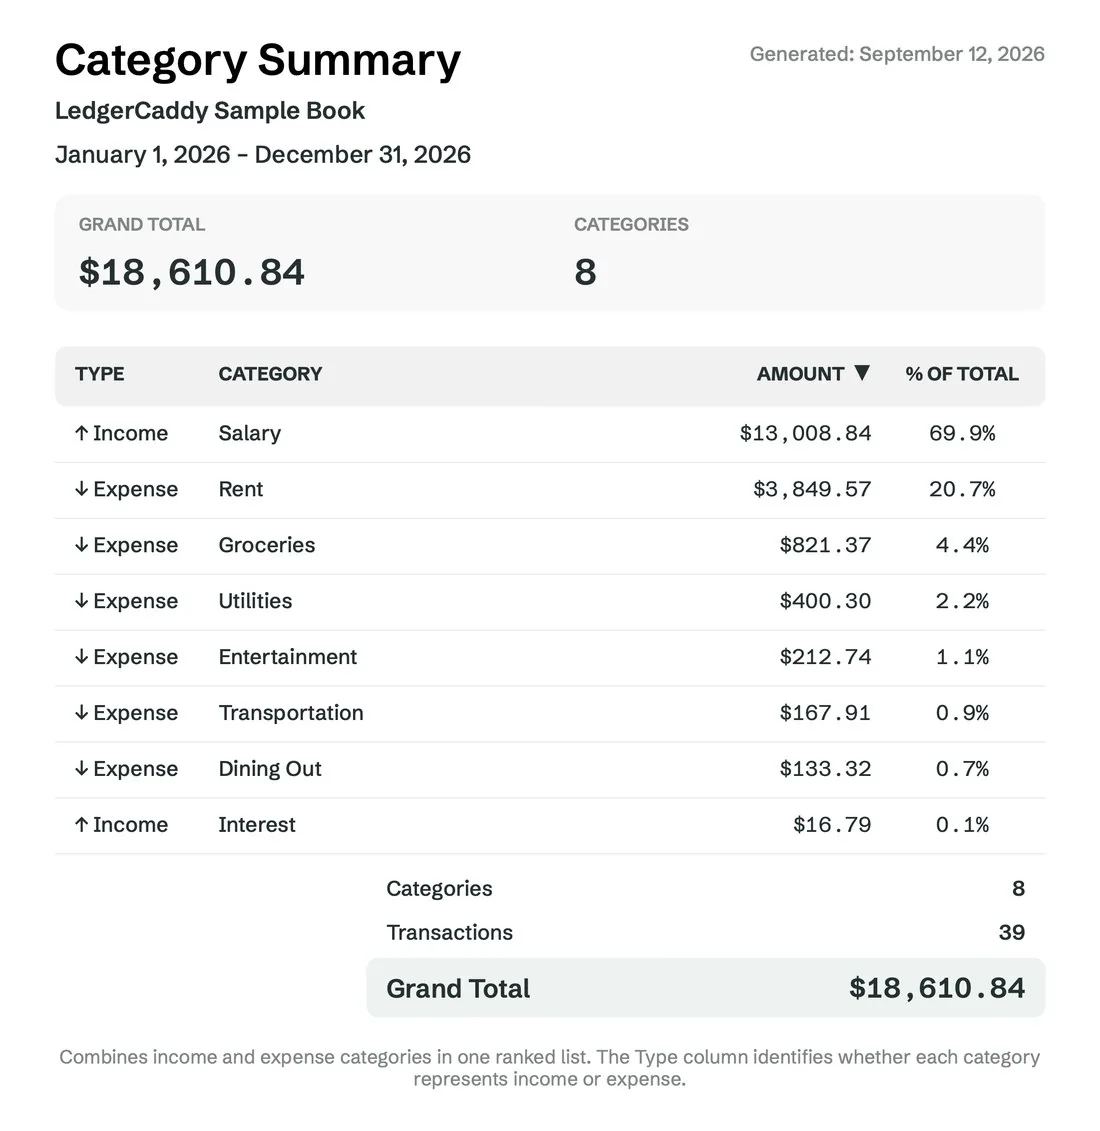
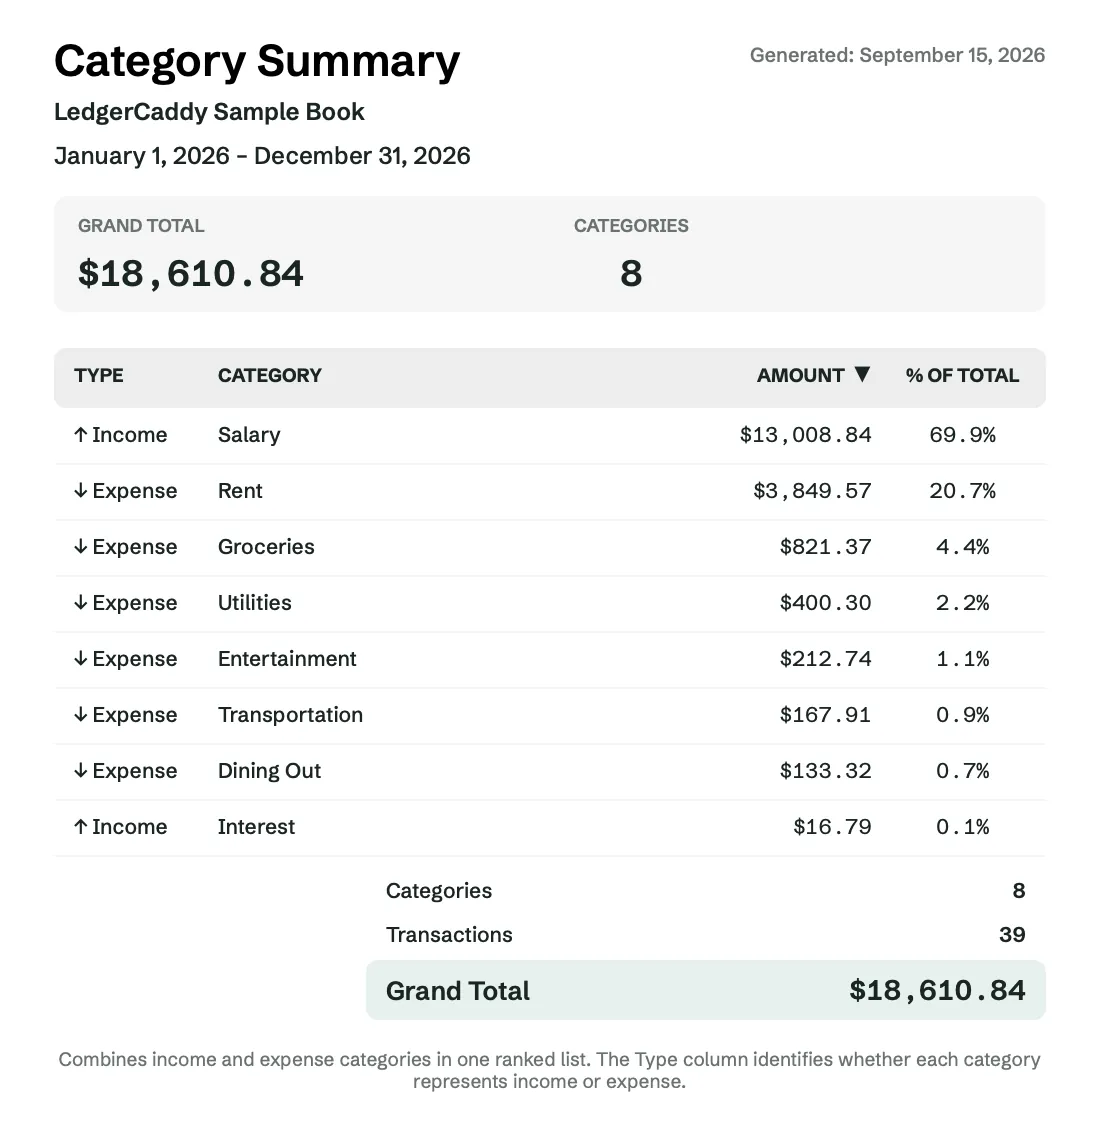
Reports: Profit & Loss replaces Income and Expense Summary; all report pages re-captured from rc.139
New images from the rc.139 Sample Book capture (profit-loss, category-summary,
period-pack p1/p2/p4), same crops and sizes as before; old
income-expense-summary files removed. Caption, alt, report-list pill and
Period Pack description updated. Hero paragraph: "Always organized. Any
report is one click away."; "clean," dropped; 62/38 hero split under 1100px.

diff --git a/index.html b/index.html
@@ -62,7 +62,7 @@ section{padding:64px 0}@media(max-width:700px){section{padding:48px 0}}
 .hero-media{width:100%;max-width:640px;justify-self:end;border-radius:18px;overflow:hidden;box-shadow:0 22px 50px rgba(26,37,35,.16);background:var(--card)}
 .hero-media img{display:block;width:100%;height:auto}
 @media(max-width:1280px){.hero .wrap{gap:48px}.hero{padding:80px 0 72px}}
-@media(max-width:1100px){.hero .wrap{gap:40px}.hero{padding:72px 0 64px}}
+@media(max-width:1100px){.hero .wrap{gap:40px;grid-template-columns:minmax(0,62fr) minmax(0,38fr)}.hero .lead{font-size:16.5px}.hero{padding:72px 0 64px}}
 @media(max-width:820px){.hero{padding:56px 0 56px}.hero .wrap{grid-template-columns:1fr;gap:40px;padding:0 24px}.hero h1{font-size:clamp(36px,9.8vw,52px)}.hero .lead{margin-top:22px}.hero-ctas{margin-top:28px}.hero-media{max-width:none;justify-self:stretch}}
 /* stats band */
 .feats{margin-top:-34px;position:relative;z-index:2;padding:0 24px}
@@ -177,7 +177,7 @@ footer{background:var(--card);border-top:1px solid var(--border);padding:40px 0}
 <section class="hero" id="main" aria-labelledby="hero-title"><div class="wrap">
 <div class="hero-copy">
 <h1 id="hero-title">Bookkeeping<br><span class="g">for people who are<br>not bookkeepers.</span></h1>
-<p class="lead">LedgerCaddy turns income and expenses into clean, reconciled books and a single PDF of professional reports. No accounting degree, no subscription, no cloud. Just a Mac app that keeps you organized all year so year-end is one click.</p>
+<p class="lead">LedgerCaddy turns income and expenses into reconciled books and professional reports. No accounting degree, no subscription, no cloud. Always organized. Any report is one click away.</p>
 <div class="hero-ctas"><a class="cta" href="#how">See how it works</a><a class="ghost" href="#pricing">Try free for 14 days</a></div>
 <p class="hero-note">Free 14-day trial. No credit card, no account, nothing to cancel.</p>
 </div>
@@ -212,15 +212,15 @@ footer{background:var(--card);border-top:1px solid var(--border);padding:40px 0}
 <section id="reports" class="tint"><div class="wrap"><div class="head center"><div class="eyebrow">Reports</div><h2>Professional reports<br>for you and your accountant.</h2>
 <p class="lead" style="margin-left:auto;margin-right:auto">These are real pages from the Sample Book, exactly as LedgerCaddy prints them. Every report also exports to PDF and CSV.</p></div>
 <div class="pages">
-<figure class="page"><picture><source srcset="images/reports/income-expense-summary.webp" type="image/webp"><img src="images/reports/income-expense-summary.jpg" alt="Income and Expense Summary report page" width="1100" height="1131" loading="lazy"></picture><figcaption><b>Income and Expense Summary.</b> The one your accountant asks for first.</figcaption></figure>
+<figure class="page"><picture><source srcset="images/reports/profit-loss.webp" type="image/webp"><img src="images/reports/profit-loss.jpg" alt="Profit &amp; Loss report page" width="1100" height="1131" loading="lazy"></picture><figcaption><b>Profit &amp; Loss.</b> The one your accountant asks for first.</figcaption></figure>
 <figure class="page"><picture><source srcset="images/reports/category-summary.webp" type="image/webp"><img src="images/reports/category-summary.jpg" alt="Category Summary report page" width="1100" height="1131" loading="lazy"></picture><figcaption><b>Category Summary.</b> Where the money went, ranked.</figcaption></figure>
 </div>
 <div class="packrow">
 <figure class="pack"><div class="stack"><picture><source srcset="images/reports/period-pack-p4.webp" type="image/webp"><img class="s3" src="images/reports/period-pack-p4.jpg" alt="" width="900" height="695" loading="lazy"></picture><picture><source srcset="images/reports/period-pack-p2.webp" type="image/webp"><img class="s2" src="images/reports/period-pack-p2.jpg" alt="" width="900" height="1165" loading="lazy"></picture><picture><source srcset="images/reports/period-pack-p1.webp" type="image/webp"><img class="s1" src="images/reports/period-pack-p1.jpg" alt="The Period Pack, a multi-page PDF of year-end reports" width="900" height="1165" loading="lazy"></picture></div></figure>
-<div class="packcopy"><div class="eyebrow">Year-end, in one click</div><h3>The Period Pack</h3><p>One button assembles the reports your accountant asks for into a single PDF: the Income and Expense Summary, Account Balances, the Tax Summary and the full Transaction Listing, all for the same period, all from the same books.</p><p>Send one file. Keep a copy. Done.</p></div>
+<div class="packcopy"><div class="eyebrow">Year-end, in one click</div><h3>The Period Pack</h3><p>One button assembles the reports your accountant asks for into a single PDF: the Profit &amp; Loss, Account Balances, the Tax Summary and the full Transaction Listing, all for the same period, all from the same books.</p><p>Send one file. Keep a copy. Done.</p></div>
 </div>
 <p class="sub" style="margin-top:28px;text-align:center">Filter any report by date, account, category, payee or status. Sort by any column. Pin the ones you run every month.</p>
-<div class="reportlist" style="justify-content:center"><span>Income and Expense Summary</span><span>Expense Summary</span><span>Income Summary</span><span>Category Summary</span><span>Payee Summary</span><span>Account Balances</span><span>Transaction Listing</span><span>Reconciliation History</span><span>Tax Summary</span><span style="background:var(--gt);border-color:#E8CD8E;color:#7A5A12">★ Period Pack</span></div>
+<div class="reportlist" style="justify-content:center"><span>Profit &amp; Loss</span><span>Expense Summary</span><span>Income Summary</span><span>Category Summary</span><span>Payee Summary</span><span>Account Balances</span><span>Transaction Listing</span><span>Reconciliation History</span><span>Tax Summary</span><span style="background:var(--gt);border-color:#E8CD8E;color:#7A5A12">★ Period Pack</span></div>
 </div></section>
 
 <section class="white"><div class="wrap"><div class="head"><div class="eyebrow">What you get</div><h2>What good bookkeeping looks like.</h2></div>
